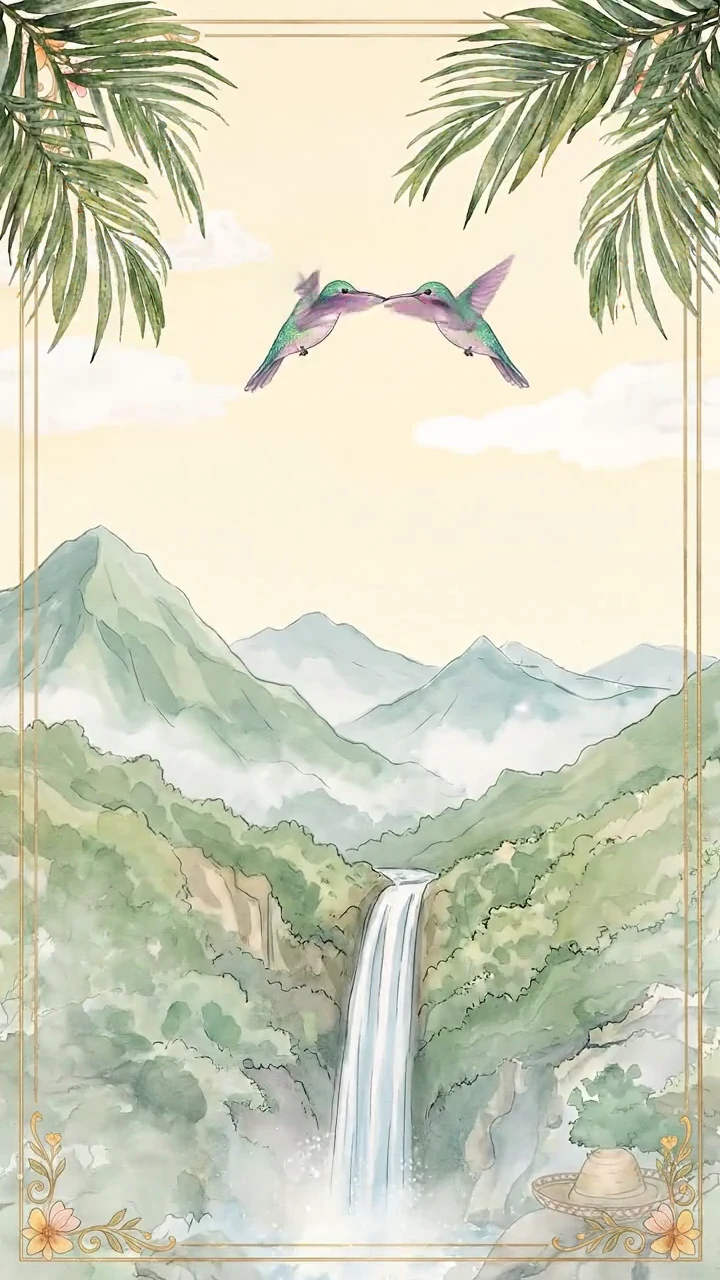
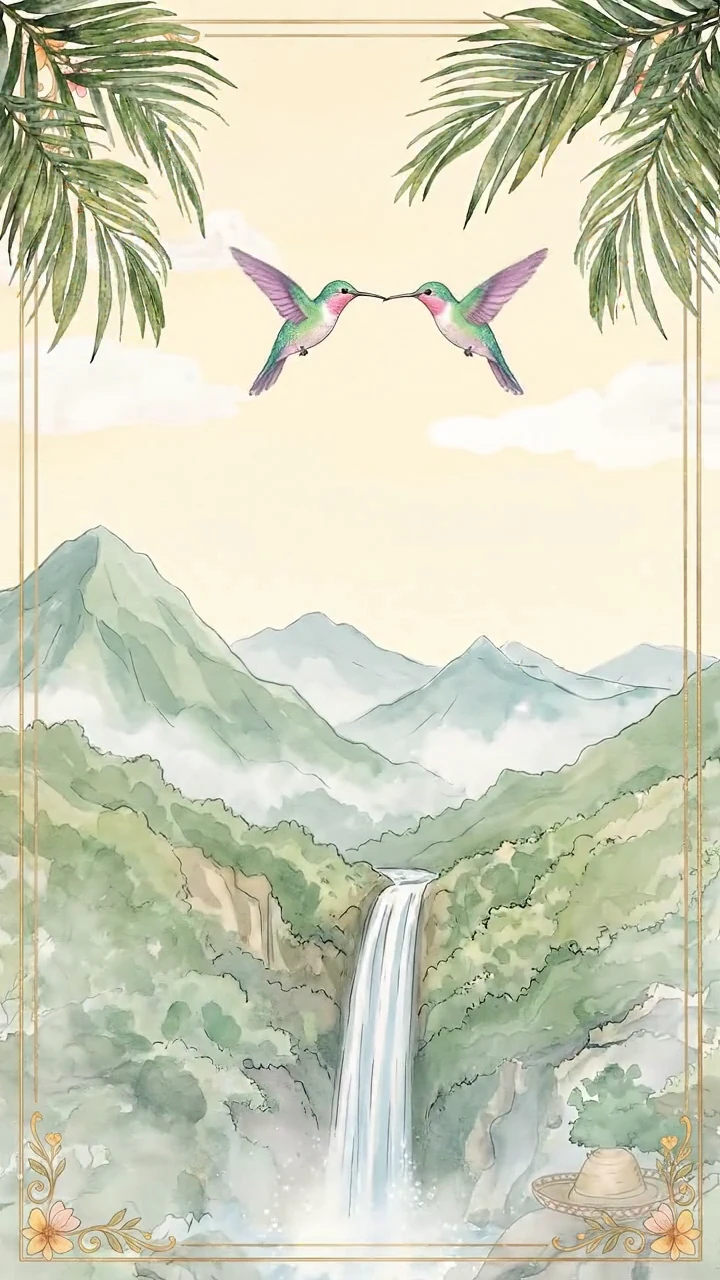
fix: hero se detiene en el cuadro con alas arriba

diff --git a/index.html b/index.html
@@ -1399,7 +1399,12 @@ function heroIntro(hv){
   if(!hv||prefersReduced){if(hv){hv.src='';hv.poster='img/hero-final.webp';}showNames();return;}
   gsap.set(kids,{opacity:0});if(hint) gsap.set(hint,{opacity:0});
   hv.addEventListener('timeupdate',function(){if(hv.duration&&hv.currentTime>=hv.duration-2.2)showNames();});
-  hv.addEventListener('ended',function(){hv.poster='img/hero-final.webp';showNames();});
+  /* se detiene en el cuadro con las alas de ambos colibríes arriba (7.625 s), no en el último */
+  var HOLD=7.625,held=false;
+  function hold(){if(held)return;held=true;hv.pause();try{hv.currentTime=HOLD;}catch(e){}hv.poster='img/hero-final.webp';showNames();}
+  if(hv.requestVideoFrameCallback){(function watch(){hv.requestVideoFrameCallback(function(now,m){if(m.mediaTime>=HOLD-0.03)hold();else if(!held)watch();});})();}
+  hv.addEventListener('timeupdate',function(){if(hv.currentTime>=HOLD-0.12)hold();});
+  hv.addEventListener('ended',hold);
   hv.addEventListener('error',function(){hv.poster='img/hero-final.webp';showNames();});
   var pr;try{hv.currentTime=0;pr=hv.play();}catch(e){showNames();return;}
   if(pr&&pr.catch) pr.catch(function(){hv.poster='img/hero-final.webp';showNames();});
